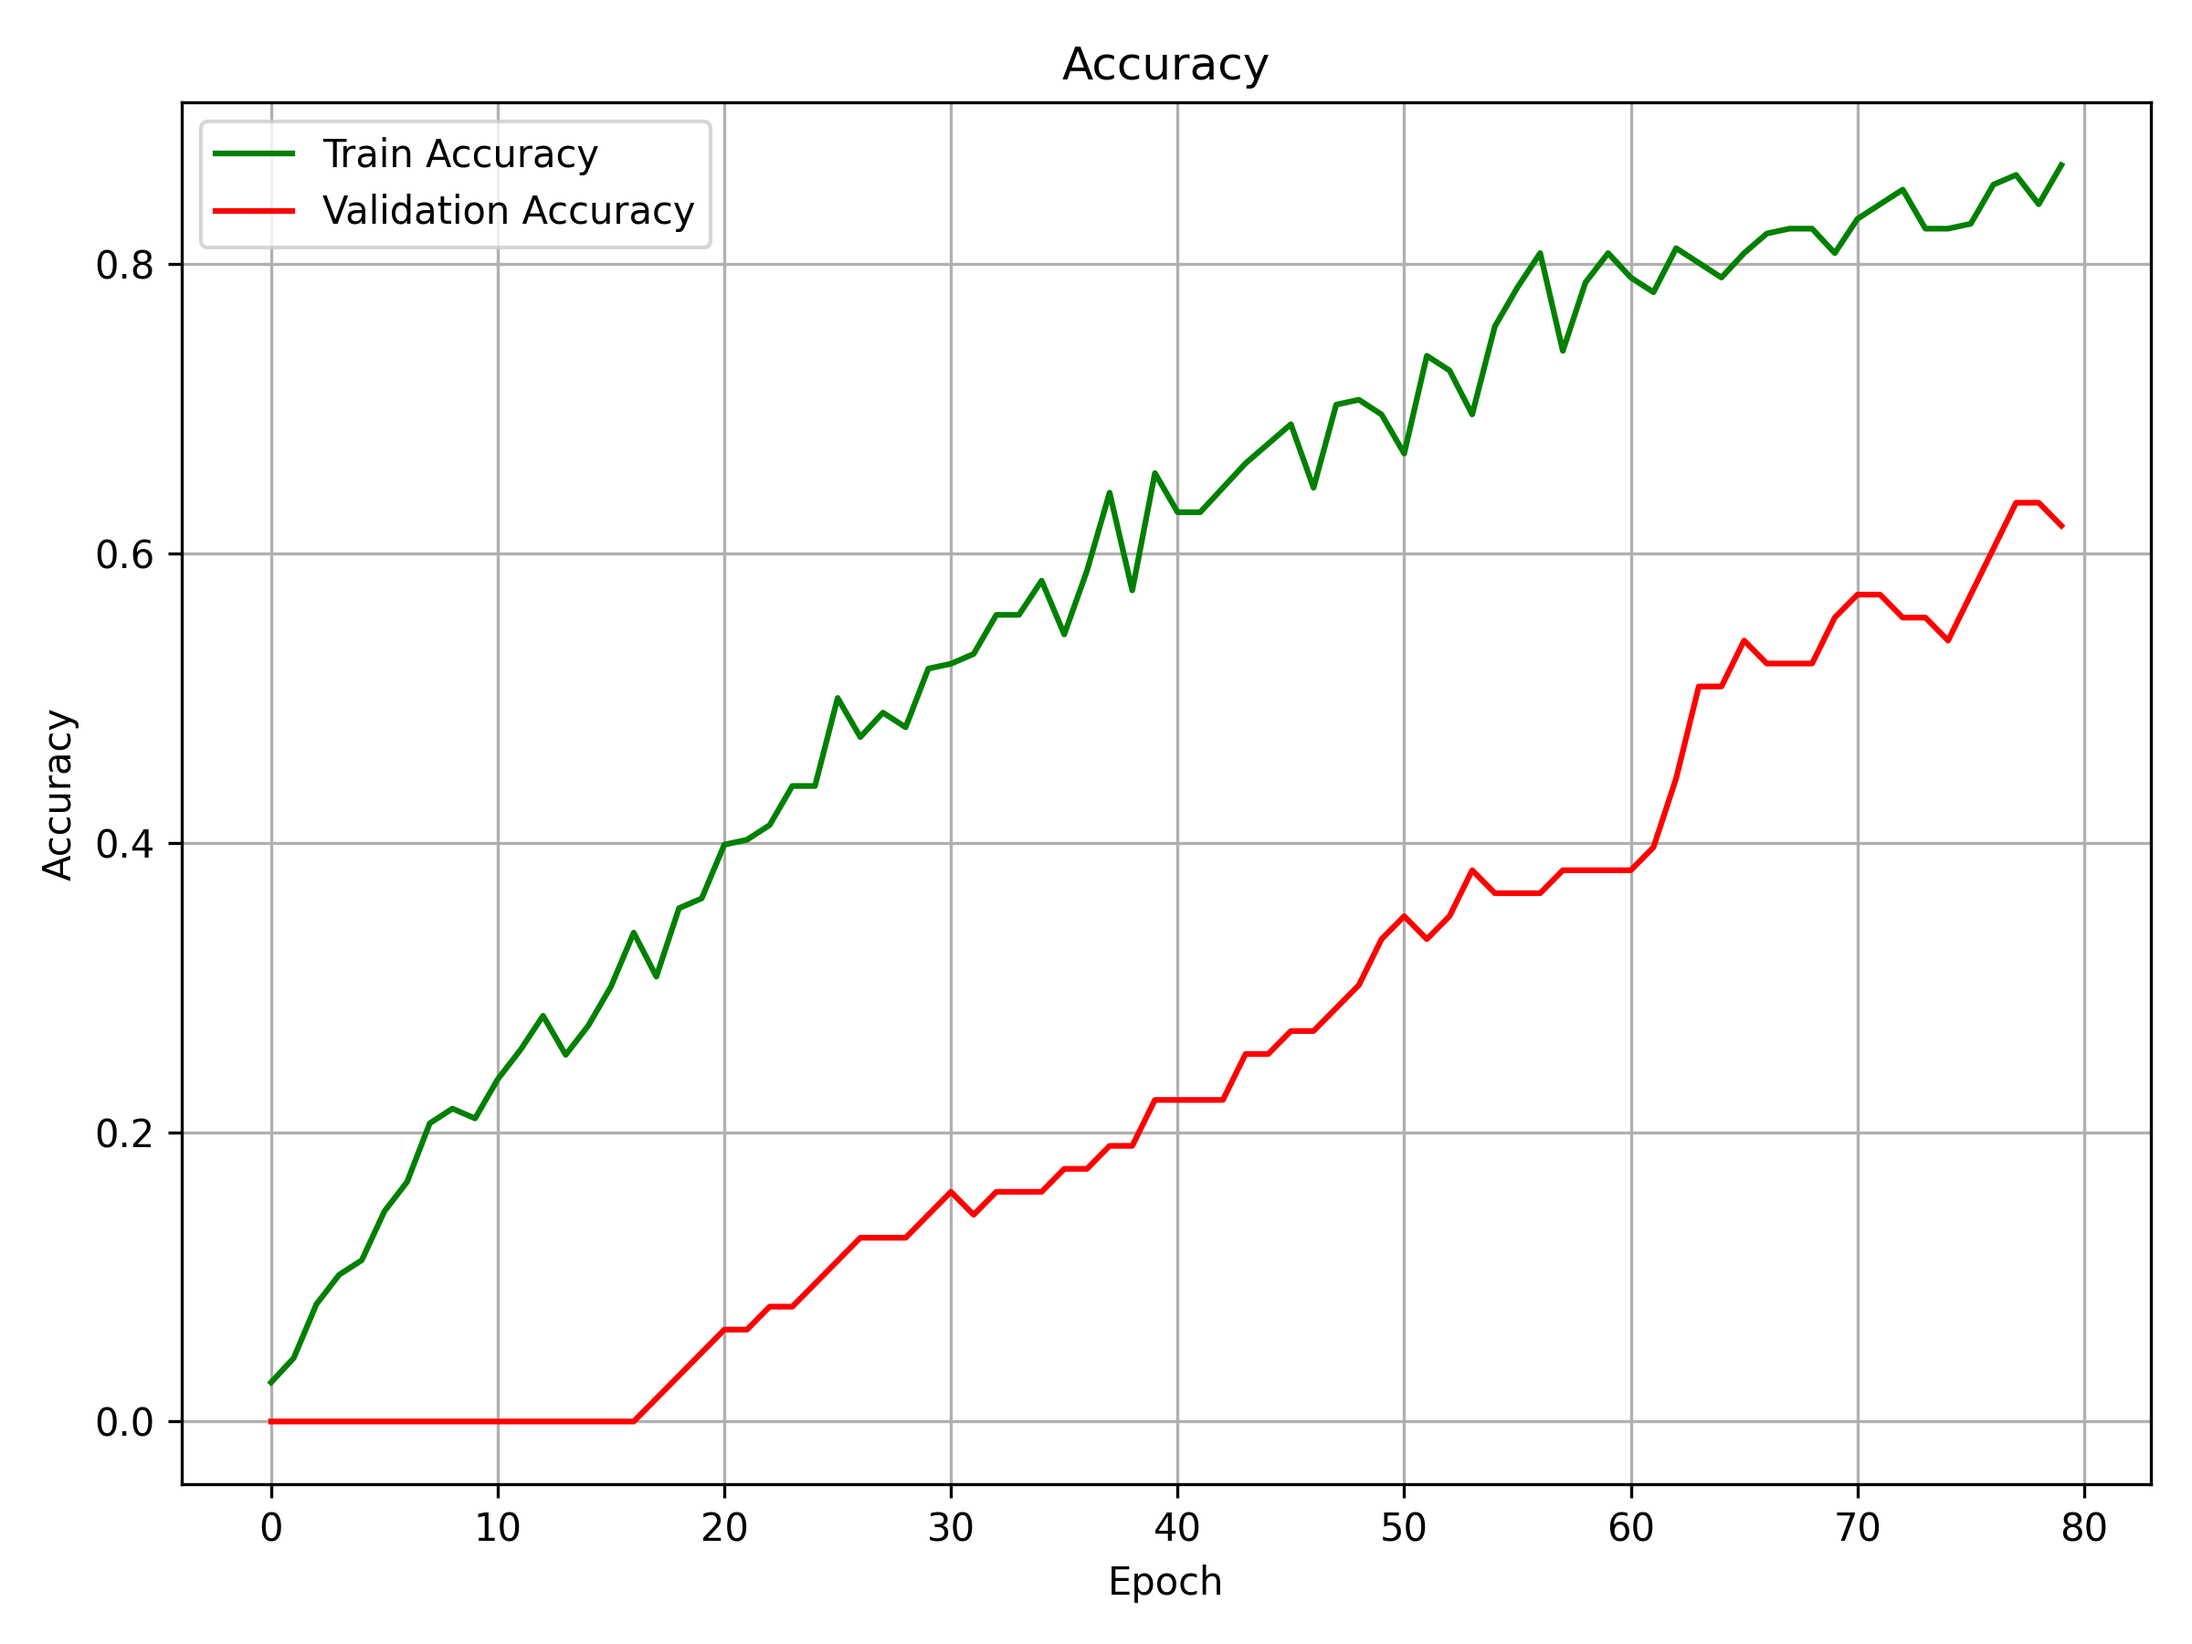
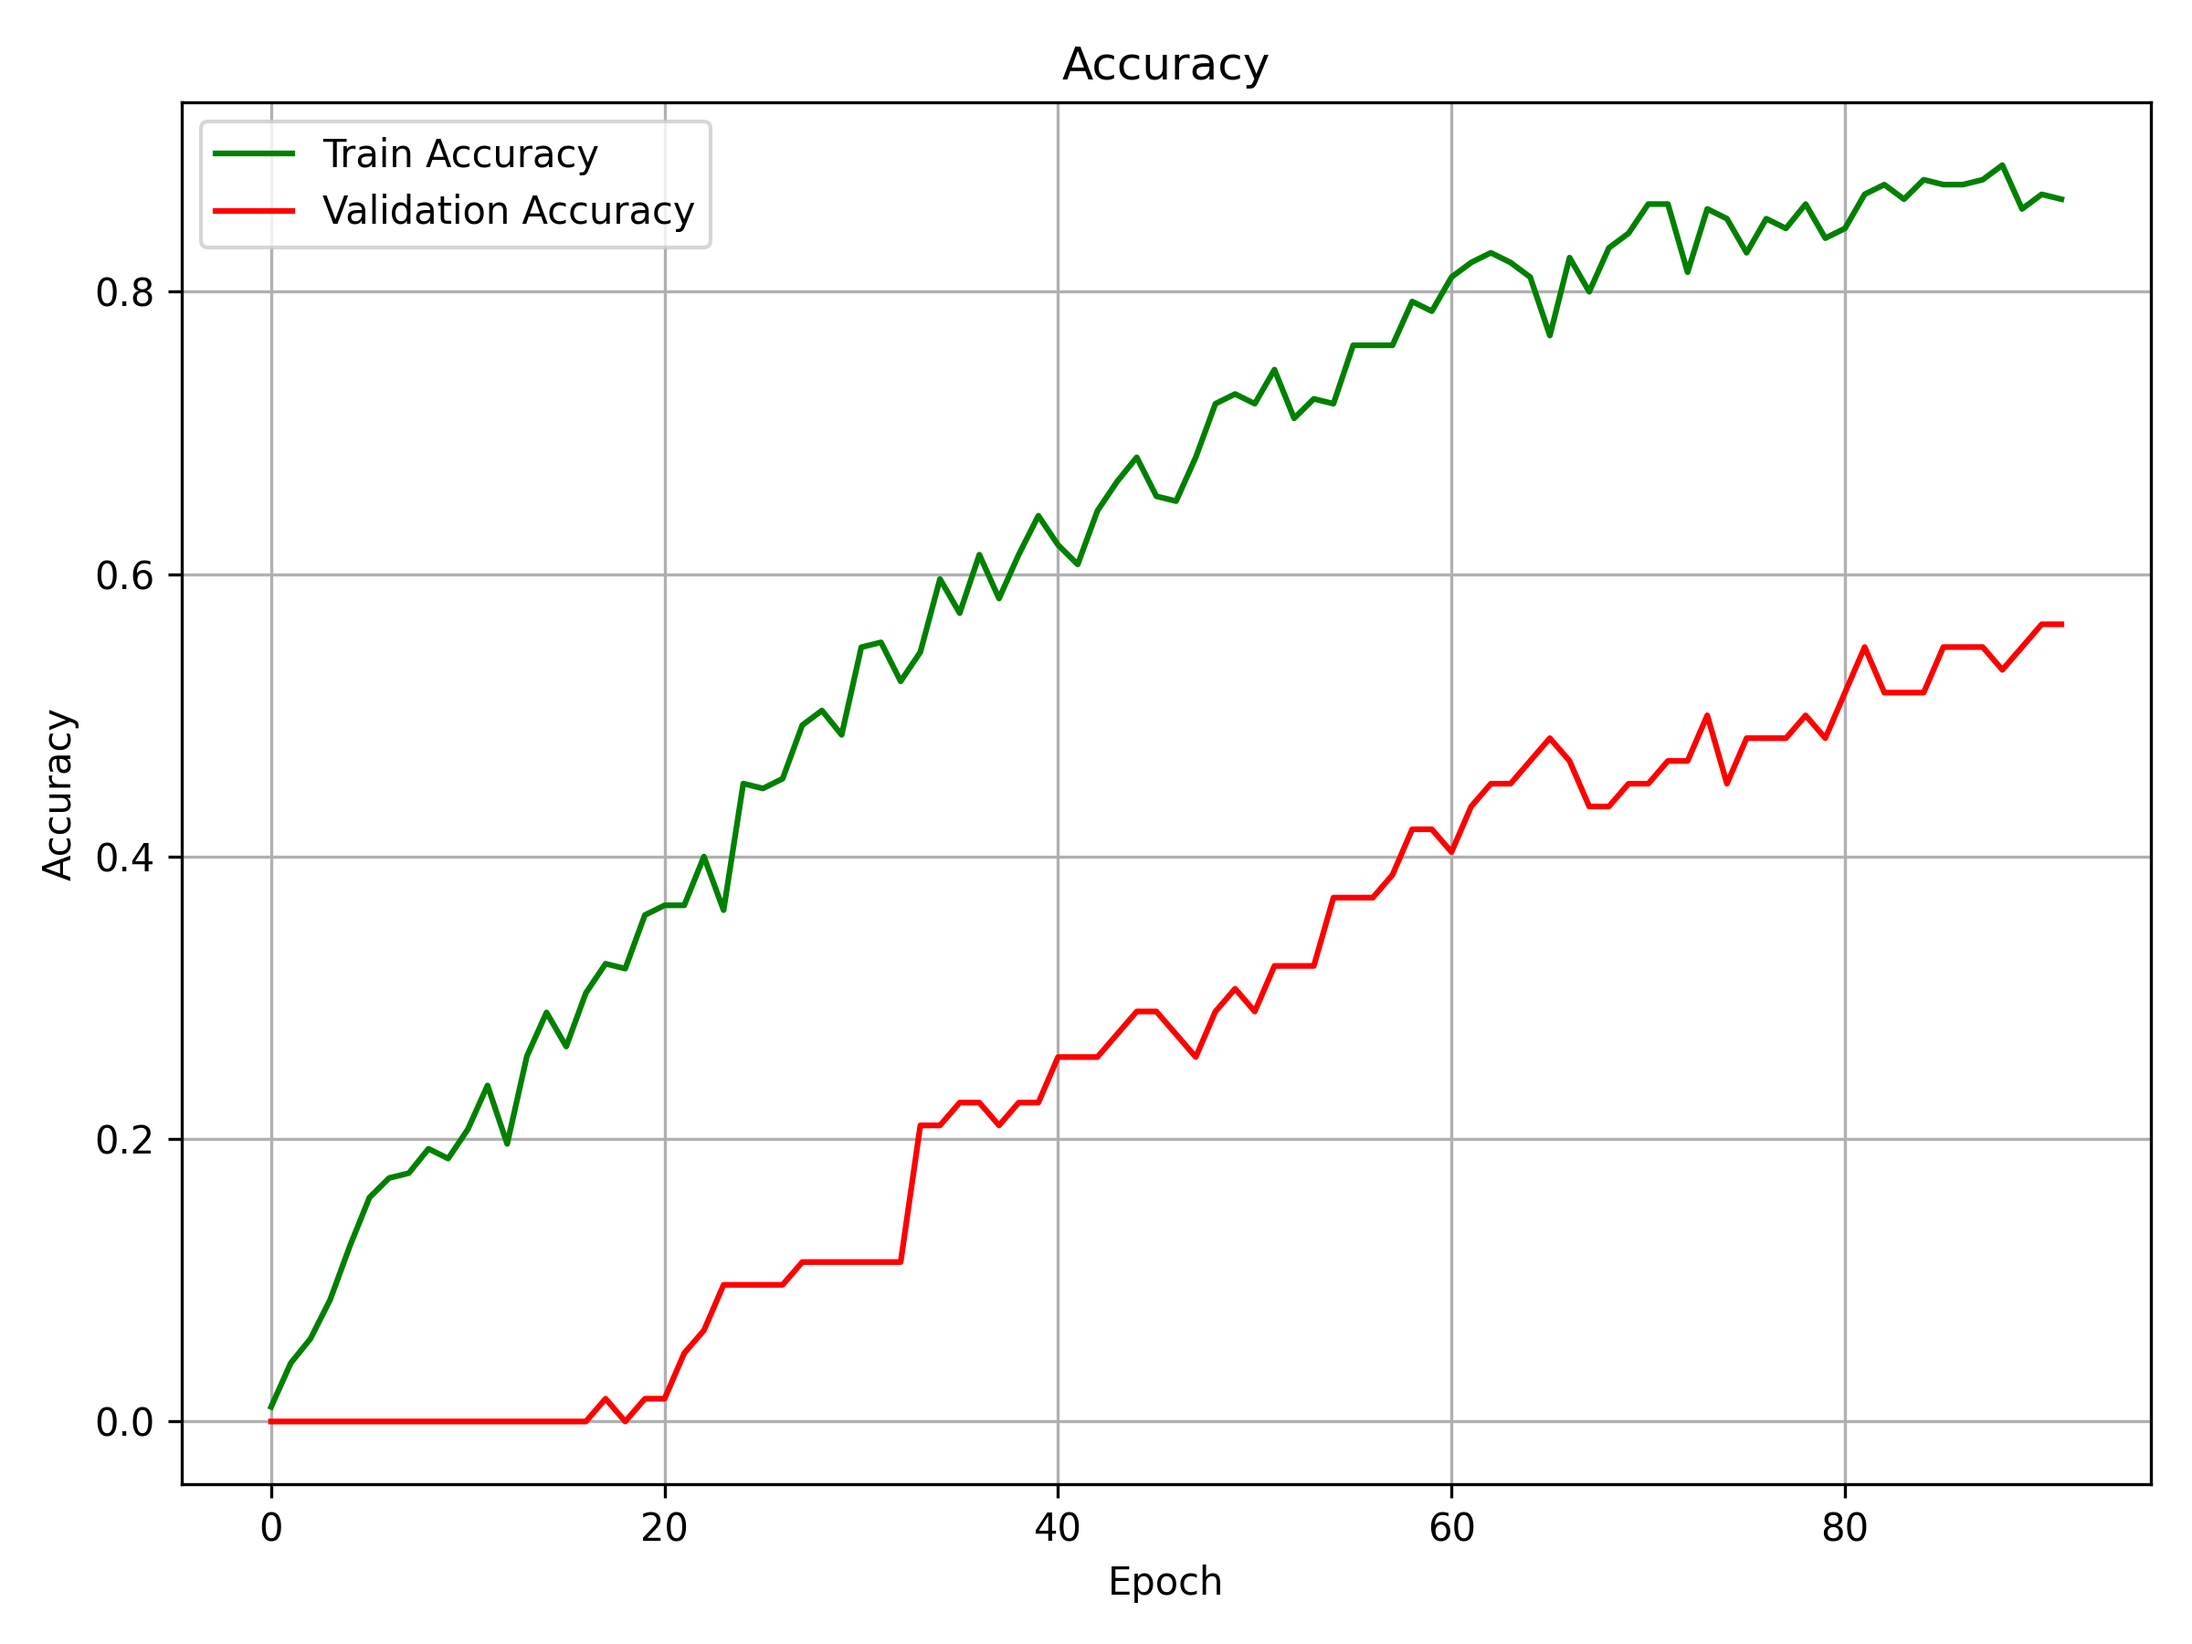
best new model

diff --git a/main.py b/main.py
@@ -4,10 +4,10 @@ import numpy as np
 from config import config
 
 if __name__ == "__main__":
-    '''seed = 42
+    seed = 1
     run_training(seed=seed)  
     run_test(seed=seed)
-    print("Avvio server TCP per ricevere immagini da Unity...")'''
+    '''print("Avvio server TCP per ricevere immagini da Unity...")
     config()
     from server import run_server  
-    run_server()
+    run_server()'''
